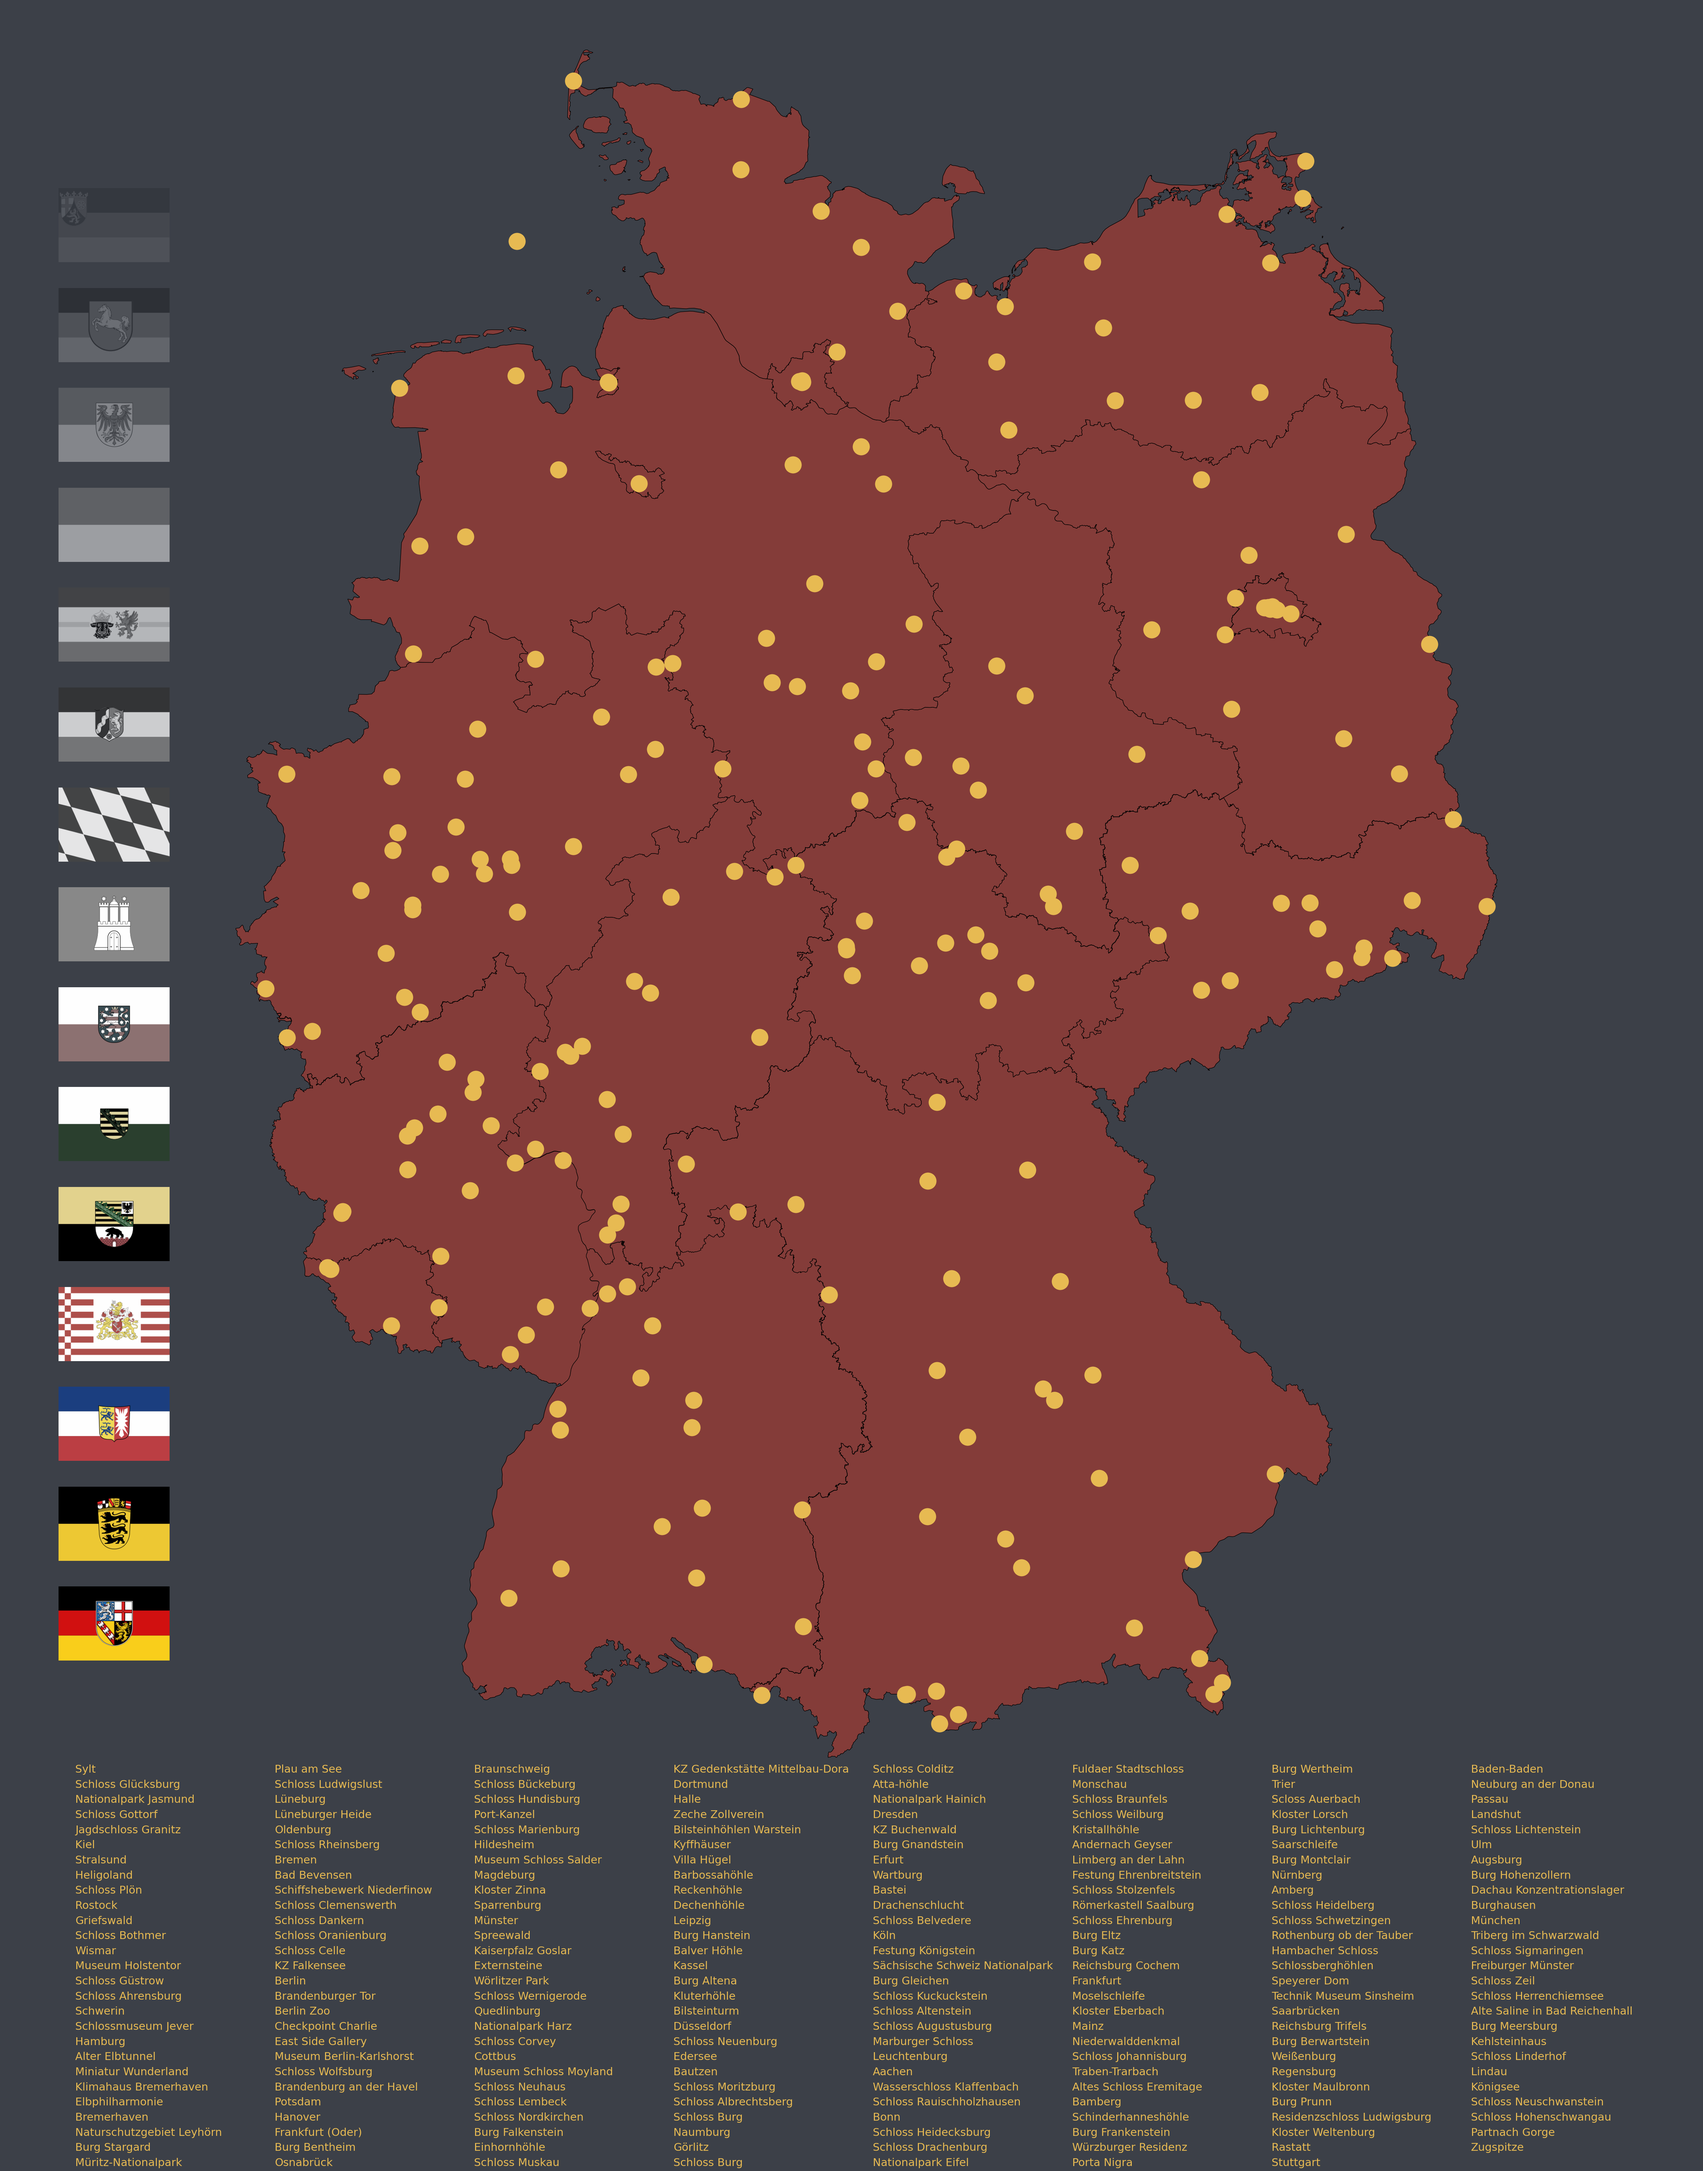
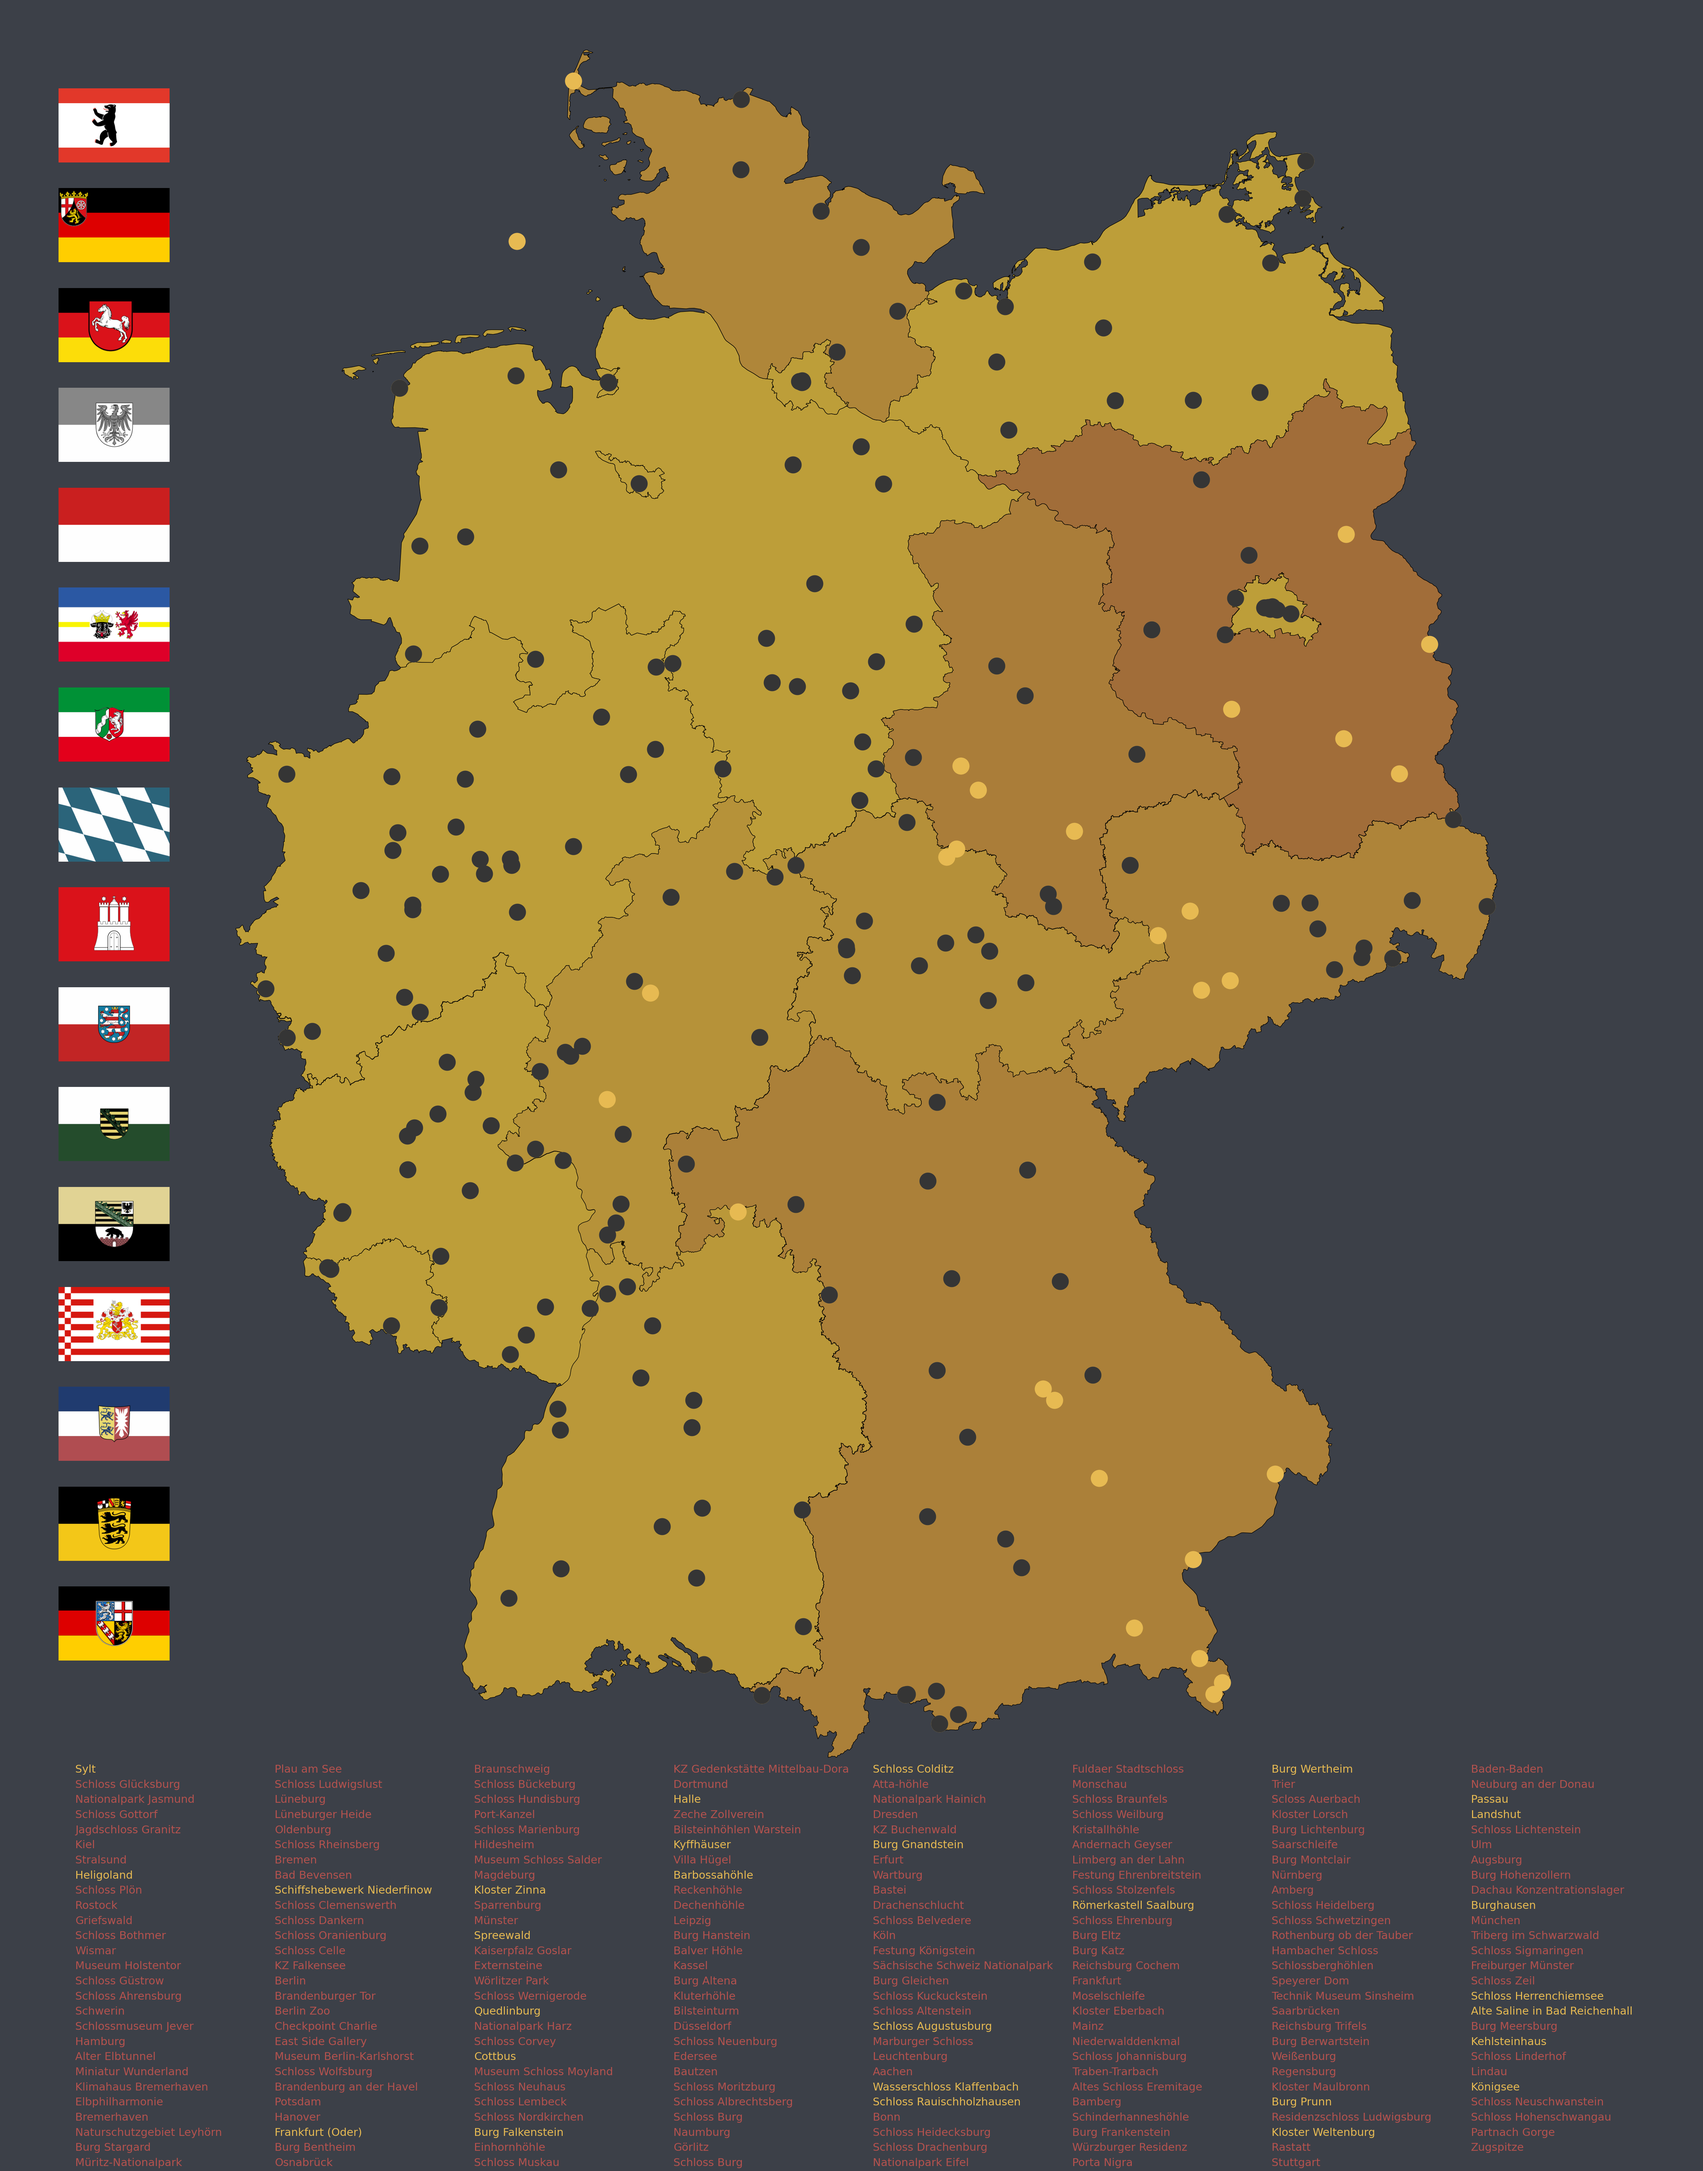
update large map

diff --git a/plotting/plotting_manager.py b/plotting/plotting_manager.py
@@ -61,10 +61,12 @@ class PlotManager:
         return fig, ax
 
     def _plot_submaps(self, ax, current_date):
+        self.ratios = {}
         for submap in self.submaps:
             submap_points = self.points_gdf[self.points_gdf['submap'] == submap]
             num_past_dates = (submap_points['date'] <= current_date).sum()
             ratio = num_past_dates / len(submap_points)
+            self.ratios[submap] = ratio
             color = CustomCmap(self.map_dark, self.map_light).value(ratio)
 
             shapefile_path = os.path.join(self.path, "submaps", f"{submap}.shp")
@@ -106,11 +108,13 @@ class PlotManager:
     def _plot_flags(self, ax):
         png_files = [f for f in os.listdir(f"{self.path}/submaps") if f.lower().endswith(".png")]
         for i, file in enumerate(png_files):
-            #print(file)
+            #ratio = i/(len(png_files) - 1.0)
+
+            ratio = self.ratios[file[:2]]
 
             # Create image
-            if i/len(png_files) > 0.5:
-                beta = i/len(png_files)*2 - 1
+            if ratio > 0.5:
+                beta = ratio*2 - 1
             else:
                 beta = 0
             img = mpimg.imread(f"./de/submaps/{file}")
@@ -119,15 +123,13 @@ class PlotManager:
             img[:,:,3] = img[:,:,3]*beta
 
             # Create grayscale image
-            if i/len(png_files) > 0.5:
+            if ratio > 0.5:
                 alpha = 1
             else:
-                alpha = i/len(png_files)*2
+                alpha = ratio*2
             gray = np.dot(img[...,:3], [0.587, 0.299, 0.114])
             gray_rgb = np.stack((gray, gray, gray), axis=-1)
             if gray_rgb.shape[-1] == 3:
-                print(img.shape)
-                print(img.shape[:2])
                 gray_rgb = np.dstack([gray_rgb, np.ones(gray_rgb.shape[:2])*alpha])
             
             # Create gray mask
@@ -136,7 +138,7 @@ class PlotManager:
             gray_mask[:,:,1] = gray_mask[:,:,1]*64/255
             gray_mask[:,:,2] = gray_mask[:,:,2]*72/255
 
-            mask_level = 1.0 - i/len(png_files)
+            mask_level = 1.0 - ratio
             gray_mask = np.dstack([gray_mask, np.ones(gray_mask.shape[:2])*mask_level])
 
             img_position = (-0.075, 0.94 - i/len(png_files)*0.9)

diff --git a/main.py b/main.py
@@ -1,11 +1,11 @@
-#import pandas as pd
+import pandas as pd
 import datetime
 
 from metadata.meta_loader import MetaLoader
 from data.points_loader import PointsLoader
 from data.submaps_loader import SubmapsLoader
 from plotting.plotting_manager import PlotManager
-#from plotting.gif_generator import GifGenerator
+from plotting.gif_generator import GifGenerator
 from utils.file_utils import ensure_directory_exists
 
 
@@ -49,21 +49,21 @@ current_date = points_sorted['date'].min() - datetime.timedelta(days=1)
 plot_manager.generate_plot(current_date, points_sorted.iloc[0], copy=True)
 
 # Plot all dates
-#for _, row in points_sorted.iterrows():
-#    current_date = row['date']
-#    if pd.notna(current_date) and current_date != old_date:
-#        plot_manager.generate_plot(current_date, row)
-#        old_date = current_date
+for _, row in points_sorted.iterrows():
+    current_date = row['date']
+    if pd.notna(current_date) and current_date != old_date:
+        plot_manager.generate_plot(current_date, row)
+        old_date = current_date
 
 # Create Last Plot
-#old_date += datetime.timedelta(days=1)
-#plot_manager.generate_plot(old_date, row, copy=True)
+old_date += datetime.timedelta(days=1)
+plot_manager.generate_plot(old_date, row, copy=True)
 
 # Create gif from produced plots
-#gif = GifGenerator(
-#    input_folder="./plots/temp",
-#    output_gif=f"./gifs/{PATH}_{SCALE}.gif",
-#    duration=200
-#)
-#gif.generate()
-#gif.cleanup_temp()
+gif = GifGenerator(
+    input_folder="./plots/temp",
+    output_gif=f"./gifs/{PATH}_{SCALE}.gif",
+    duration=200
+)
+gif.generate()
+gif.cleanup_temp()
